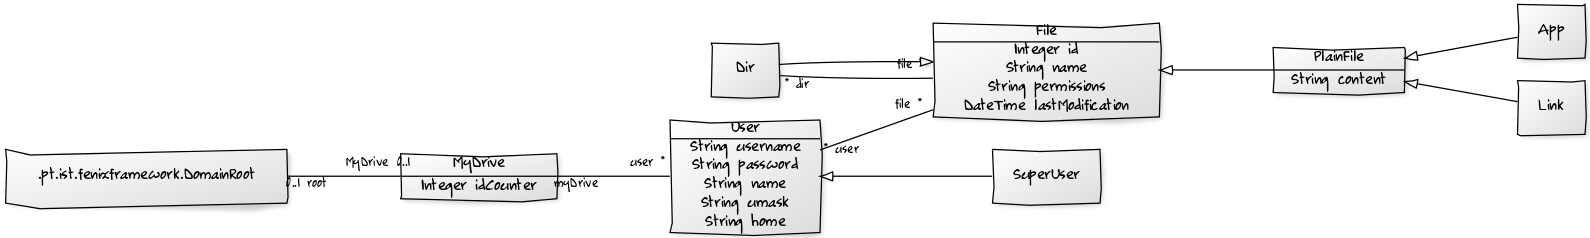
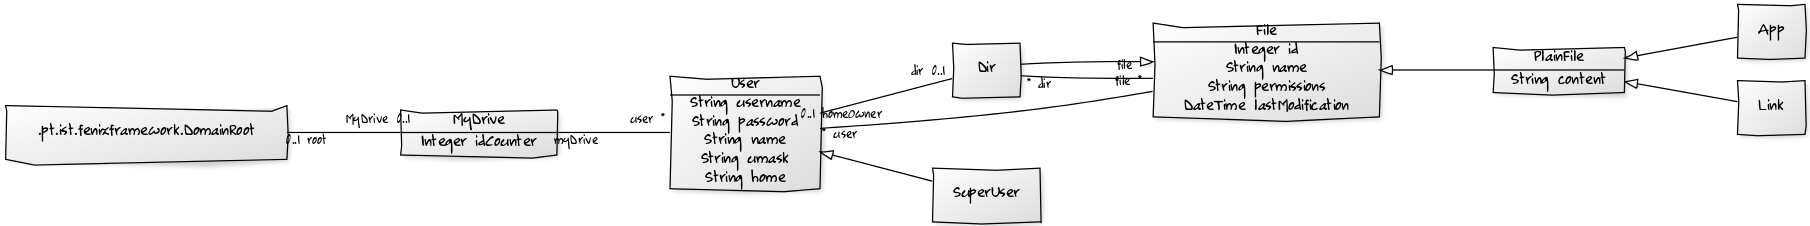
closes #21 implemented new relation in domain

diff --git a/src/main/java/pt/tecnico/myDrive/domain/Dir.java b/src/main/java/pt/tecnico/myDrive/domain/Dir.java
@@ -1,10 +1,7 @@
 package pt.tecnico.myDrive.domain;
 
 import org.jdom2.Element;
-import pt.tecnico.myDrive.exception.FileAlreadyExistsException;
-import pt.tecnico.myDrive.exception.FileDoesNotExistException;
-import pt.tecnico.myDrive.exception.ImportDocumentException;
-import pt.tecnico.myDrive.exception.NoPermissionException;
+import pt.tecnico.myDrive.exception.*;
 
 public class Dir extends Dir_Base {
 
@@ -78,12 +75,16 @@ public class Dir extends Dir_Base {
 	}
 
 	@Override
-	public void remove() {
+	public void remove() throws MyDriveException {
 		for (User u : getUserSet())
 			u.removeFile(this);
 		for (Dir d : getDirSet())
 			d.removeFile(this);
 		getFileSet().forEach(File::remove);
+		if (getHomeOwner() != null){
+			//Do not allow?
+			setHomeOwner(null);
+		}
 		deleteDomainObject();
 	}
 

diff --git a/src/main/java/pt/tecnico/myDrive/domain/User.java b/src/main/java/pt/tecnico/myDrive/domain/User.java
@@ -22,6 +22,7 @@ public class User extends User_Base {
 	    setPassword(password);
 	    setMask(umask);
 		md.addUser(this);
+		//setHomeDir(x);
 	    //TODO: add home dir relation.
 	}
 
@@ -30,8 +31,9 @@ public class User extends User_Base {
 		setUsername(username);
 		setName(username);
 		setPassword(username);
-		setMask("rwxd---");
+		setMask("rwxd----");
 		md.addUser(this);
+		//setHomeDir(x);
 		//TODO: add home dir relation.
 	}
 
